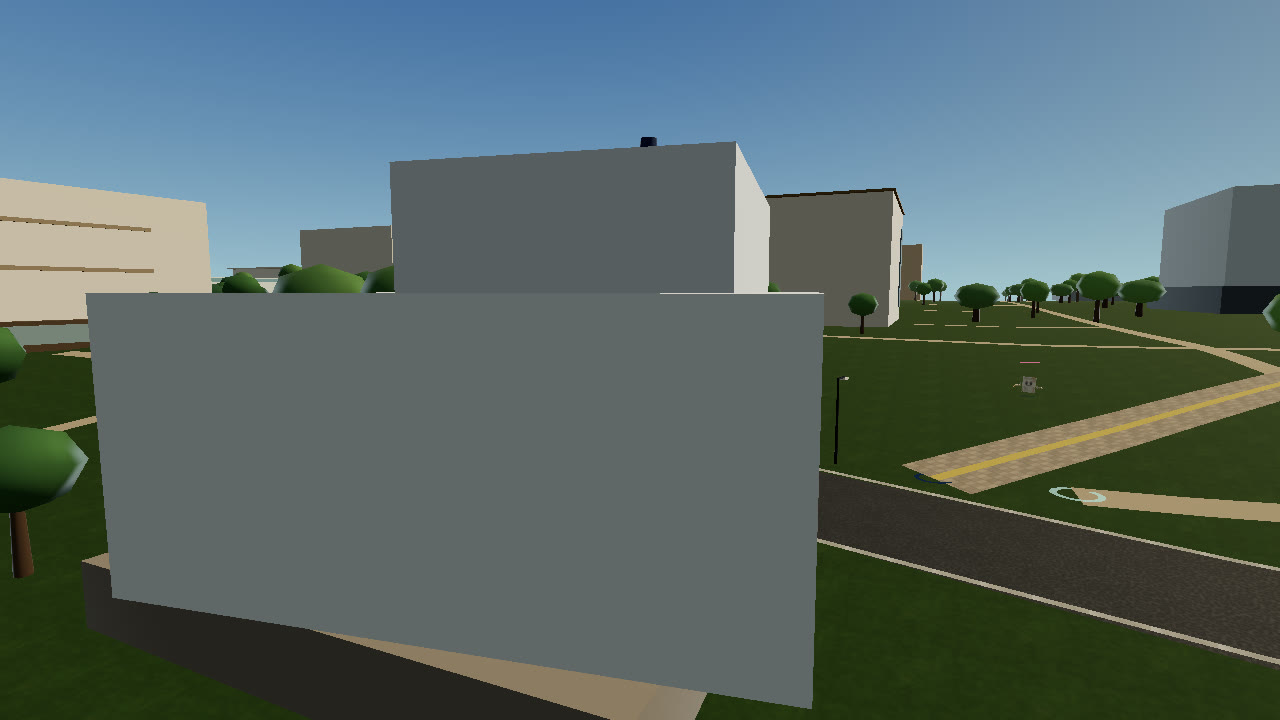
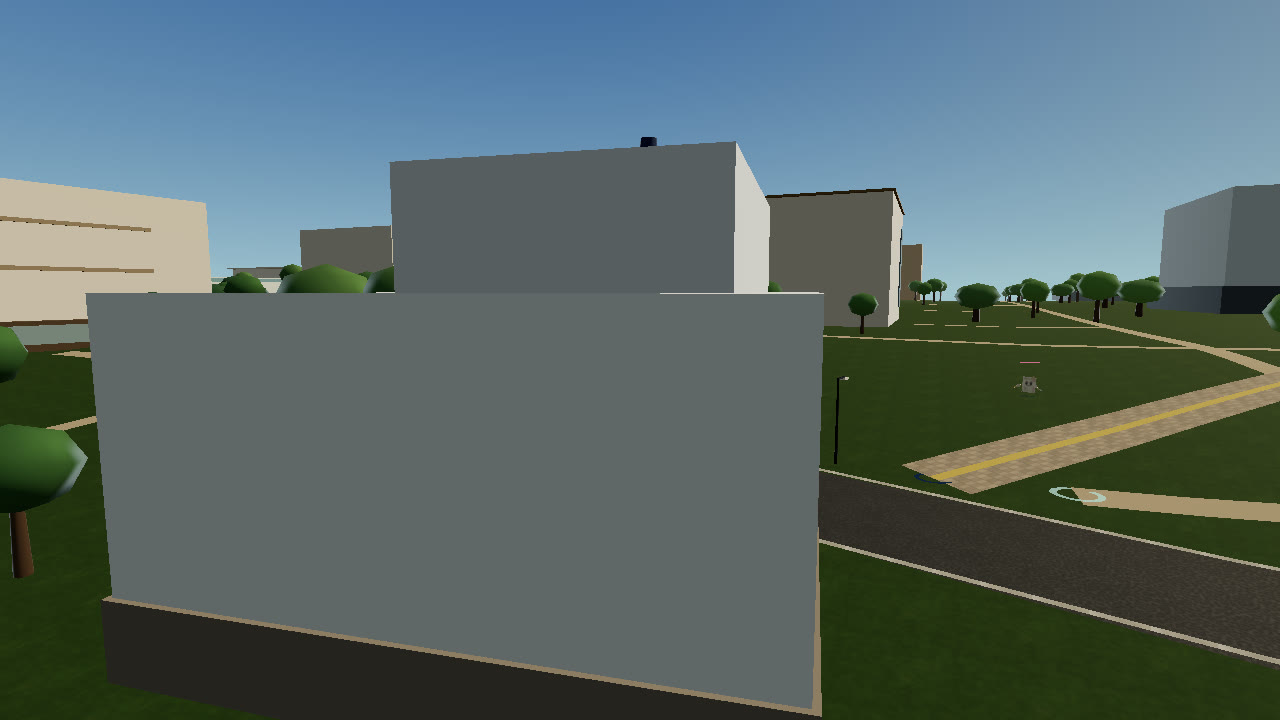
Rotate the museum skirt with the hull.
The ship sits 0.16 rad off the axes. The skirt now uses that rotation, and the low corner is taken from the rotated footprint, so the southwest corner no longer hangs past the pad.

diff --git a/src/game/world-data/zones/secondary.ts b/src/game/world-data/zones/secondary.ts
@@ -915,13 +915,22 @@ export function structureGroundY(s: SecondaryStructure): number {
   return sampleGroundElevation(s.position[0], s.position[1]);
 }
 
+/** Local footprint corner, then the same Y rotation the building group uses. */
+export function footprintCorner(s: SecondaryStructure, dx: number, dz: number) {
+  const cos = Math.cos(s.rotationY);
+  const sin = Math.sin(s.rotationY);
+  return {
+    x: s.position[0] + dx * cos + dz * sin,
+    z: s.position[1] - dx * sin + dz * cos,
+  };
+}
+
 /**
- * How far the placed base sits above the lowest corner. A wide footprint on a
- * slope leaves the downhill side in the air. The skirt fills that gap only.
+ * How far the placed base sits above the lowest rotated corner. A wide
+ * footprint on a slope leaves the downhill side in the air.
  */
 export function foundationSpan(s: SecondaryStructure) {
   const deck = structureGroundY(s);
-  const [cx, cz] = s.position;
   const hx = s.size[0] / 2;
   const hz = s.size[2] / 2;
   let low = deck;
@@ -932,7 +941,8 @@ export function foundationSpan(s: SecondaryStructure) {
     [-hx, hz],
     [hx, hz],
   ] as const) {
-    low = Math.min(low, sampleGroundElevation(cx + dx, cz + dz));
+    const corner = footprintCorner(s, dx, dz);
+    low = Math.min(low, sampleGroundElevation(corner.x, corner.z));
   }
   return { deck, low, gap: deck - low };
 }

diff --git a/src/game/world/ContextStructures.tsx b/src/game/world/ContextStructures.tsx
@@ -295,10 +295,12 @@ export function ContextStructures({
         const span = foundationSpan(s);
         if (span.gap < 1) return null;
         return (
-          <mesh key={`${s.id}-skirt`} position={[s.position[0], y - span.gap / 2, s.position[1]]} receiveShadow>
-            <boxGeometry args={[s.size[0] + 0.4, span.gap, s.size[2] + 0.4]} />
-            <meshStandardMaterial color="#8d8478" roughness={0.92} />
-          </mesh>
+          <group key={`${s.id}-skirt`} position={[s.position[0], 0, s.position[1]]} rotation={[0, s.rotationY, 0]}>
+            <mesh position={[0, y - span.gap / 2, 0]} receiveShadow>
+              <boxGeometry args={[s.size[0] + 0.4, span.gap, s.size[2] + 0.4]} />
+              <meshStandardMaterial color="#8d8478" roughness={0.92} />
+            </mesh>
+          </group>
         );
       })}
       {items.map(({ s, y, geo }) => {

diff --git a/docs/art/HANDOFF.md b/docs/art/HANDOFF.md
@@ -1,13 +1,12 @@
 # 交接
 
-最後更新：2026-11-12。海事博物館西邊的樓底接到坡上，不再懸空。南邊入口留在裙牆外。覺軒有南向迴廊和較高的綠瓦坡頂。文學館仍是平簷。松濤一、三、四、五館南向每一層上層有一條陽台。松濤二館仍是底層玻璃，上層也有同一條陽台。麗澤和實棟沒有這條陽台。文學館是綠瓦平簷，不再戴尖坡頂。覺軒有南向迴廊和較高的綠瓦坡頂。商管大樓是深色玻璃底座加退縮的淺色樓身。行政大樓仍是窄入口。四座公告牌都寫著「校園公告」和「請沿步道行走」。這是遊戲裡的估計用字。坡底入口的鋪面上有六條斑馬線，落在兩根門柱中間，也避開坡底車阻。線是平塗。田徑場內圈東側草地上有一座 3×8 m 的沙坑和西端起跳板。沙坑不壓到白線，人走得過去。尺寸仍是 estimated。田徑場南直道有一條終點白線，橫過跑道，不進內圈，沒有球網。線寬仍是 estimated。海事博物館室內北牆有一座黑天鵝剪影，1.4 m 台座會擋住身體。閱讀室沒有這座台座。剪影仍是 estimated。紹謨紀念游泳館室內是一道有分道線和出發台的水池。進門和讀檔站在南邊甲板。人走到池邊會停在水面外。出發台不擋人。體育館的籃架和一組地板標線留著。紹謨紀念體育館的活動室地板只留一組標線。舊的牆邊那組已拿掉。邊線、底線和兩側禁區仍在。中線收在邊線裡面。標線是平塗，沒有碰撞。紹謨紀念游泳館南向高窗在夜裡亮冷水色，白天仍是玻璃色。海豚基座南面寫了兩行勉詞，第二行是掌握資訊，開創未來。書卷廣場四片書卷各寫了樸、實、剛、毅一字。字牌在既有碰撞盒裡。體育館南面高側窗在夜裡跟著路燈發暖光，白天不發光。閱讀的女孩坐在圖書館前庭西側石座上，石座會擋住身體，不壓在坡道上。閱讀室的書架改貼側牆，人站在牆邊不會穿進書架。閱讀室北牆有兩座閱覽桌，會擋住身體，中間走道留著。教室沒有這兩座桌子。宮燈教室黑板前有一張講台，會擋住身體。閱讀室沒有這張講台。貼著牆撞上籃架底座時，人留在房間裡。體育館裡的兩座籃架底座會擋住身體。教室裡沒有這兩座底座。海事博物館北側停了兩架估計的展示機，機身會擋住身體，南門留在館外。體育館北側放了五虎碑，五隻銅雕環著石碑，石座會擋住身體，蓋章點留在北側草地。牧羊草坪放了一座「唱自己的歌」的立姿剪影，石座會擋住身體，蓋章點留在南邊。髮尾和小龜吊飾在減少動態時回到靜止。走路動畫仍跟著移動。標題鏡頭停在軌道中心，不再繞著驚聲廣場飄。一般動態仍會慢慢繞。河面波紋和雲的漂移停住。天色仍會跟著時段變。樹冠、灌木和草不再搖。時鐘停住，風力收到 0。圖書館台基比牆面每邊多出 2.5 m，高 1.1 m，會擋住身體。南緣給坡道留了缺口。五塊帶字的路牌會擋住身體，巡禮折線仍走得過。水源街校門的兩根門柱會擋住身體，門洞和頭頂的橫梁仍走得過。校區裡點名的 134 棵樹，樹幹會擋住身體。灌木、花圃和遠景散佈的樹仍可走過去。五十九根路燈的燈柱會擋住身體。13 m/s 的閃避拆成不超過 0.2 m 的小步。三條巡禮在廣場北側先回到坡道中線，圖書館這條再從路燈東側走向書卷廣場。廣場路燈在夜裡燈頭會亮，晴天不亮。宮燈教室轉角的跟隨鏡頭留在視線上，距離不夠就升高。宮燈大道同一站點留下晴天、夕照、夜、雨後四張。七個遊戲美術 GLB 的 gzip 合計 1.70 MB。決定先不加 meshopt 或 KTX2。低畫質的路人改用程序學生，90 m 外不繪製。高畫質仍用角色組，140 m 外不繪製。司令臺台面可以走上去，比周圍地面高 1.25 m。會文館是底層柱廊和淺色上層。海事博物館的船首四個面朝外。靜態站不再帶四張沒有引用的貼圖。球場的網改成柱子和細帶。五虎崗機車停車場畫了南北兩排車格，車道不再畫線。閱讀的女孩改坐在圖書館坡道西側的長椅上。圖書館坡道旁的長椅和花台改到坡面外面。松濤二館南向有底層玻璃和雨遮。其他松濤館仍是暖色宿舍。教育館有南向雨遮和樓層遮陽。外國語文大樓仍是底層長廊。室內南門可以走出去。公共室內的天花板上緣貼著 4.4 m 的牆頂。十二根車阻仍會擋住身體。田徑場內圈仍是 24×40 m 的白線和一條中線。坡道欄杆留著。整體目標尚未完成。
+最後更新：2026-11-12。海事博物館的裙牆跟著船身轉。船身偏了 0.16 rad。南邊入口留在裙牆外。覺軒有南向迴廊和較高的綠瓦坡頂。文學館仍是平簷。松濤一、三、四、五館南向每一層上層有一條陽台。松濤二館仍是底層玻璃，上層也有同一條陽台。麗澤和實棟沒有這條陽台。文學館是綠瓦平簷，不再戴尖坡頂。覺軒有南向迴廊和較高的綠瓦坡頂。商管大樓是深色玻璃底座加退縮的淺色樓身。行政大樓仍是窄入口。四座公告牌都寫著「校園公告」和「請沿步道行走」。這是遊戲裡的估計用字。坡底入口的鋪面上有六條斑馬線，落在兩根門柱中間，也避開坡底車阻。線是平塗。田徑場內圈東側草地上有一座 3×8 m 的沙坑和西端起跳板。沙坑不壓到白線，人走得過去。尺寸仍是 estimated。田徑場南直道有一條終點白線，橫過跑道，不進內圈，沒有球網。線寬仍是 estimated。海事博物館室內北牆有一座黑天鵝剪影，1.4 m 台座會擋住身體。閱讀室沒有這座台座。剪影仍是 estimated。紹謨紀念游泳館室內是一道有分道線和出發台的水池。進門和讀檔站在南邊甲板。人走到池邊會停在水面外。出發台不擋人。體育館的籃架和一組地板標線留著。紹謨紀念體育館的活動室地板只留一組標線。舊的牆邊那組已拿掉。邊線、底線和兩側禁區仍在。中線收在邊線裡面。標線是平塗，沒有碰撞。紹謨紀念游泳館南向高窗在夜裡亮冷水色，白天仍是玻璃色。海豚基座南面寫了兩行勉詞，第二行是掌握資訊，開創未來。書卷廣場四片書卷各寫了樸、實、剛、毅一字。字牌在既有碰撞盒裡。體育館南面高側窗在夜裡跟著路燈發暖光，白天不發光。閱讀的女孩坐在圖書館前庭西側石座上，石座會擋住身體，不壓在坡道上。閱讀室的書架改貼側牆，人站在牆邊不會穿進書架。閱讀室北牆有兩座閱覽桌，會擋住身體，中間走道留著。教室沒有這兩座桌子。宮燈教室黑板前有一張講台，會擋住身體。閱讀室沒有這張講台。貼著牆撞上籃架底座時，人留在房間裡。體育館裡的兩座籃架底座會擋住身體。教室裡沒有這兩座底座。海事博物館北側停了兩架估計的展示機，機身會擋住身體，南門留在館外。體育館北側放了五虎碑，五隻銅雕環著石碑，石座會擋住身體，蓋章點留在北側草地。牧羊草坪放了一座「唱自己的歌」的立姿剪影，石座會擋住身體，蓋章點留在南邊。髮尾和小龜吊飾在減少動態時回到靜止。走路動畫仍跟著移動。標題鏡頭停在軌道中心，不再繞著驚聲廣場飄。一般動態仍會慢慢繞。河面波紋和雲的漂移停住。天色仍會跟著時段變。樹冠、灌木和草不再搖。時鐘停住，風力收到 0。圖書館台基比牆面每邊多出 2.5 m，高 1.1 m，會擋住身體。南緣給坡道留了缺口。五塊帶字的路牌會擋住身體，巡禮折線仍走得過。水源街校門的兩根門柱會擋住身體，門洞和頭頂的橫梁仍走得過。校區裡點名的 134 棵樹，樹幹會擋住身體。灌木、花圃和遠景散佈的樹仍可走過去。五十九根路燈的燈柱會擋住身體。13 m/s 的閃避拆成不超過 0.2 m 的小步。三條巡禮在廣場北側先回到坡道中線，圖書館這條再從路燈東側走向書卷廣場。廣場路燈在夜裡燈頭會亮，晴天不亮。宮燈教室轉角的跟隨鏡頭留在視線上，距離不夠就升高。宮燈大道同一站點留下晴天、夕照、夜、雨後四張。七個遊戲美術 GLB 的 gzip 合計 1.70 MB。決定先不加 meshopt 或 KTX2。低畫質的路人改用程序學生，90 m 外不繪製。高畫質仍用角色組，140 m 外不繪製。司令臺台面可以走上去，比周圍地面高 1.25 m。會文館是底層柱廊和淺色上層。海事博物館的船首四個面朝外。靜態站不再帶四張沒有引用的貼圖。球場的網改成柱子和細帶。五虎崗機車停車場畫了南北兩排車格，車道不再畫線。閱讀的女孩改坐在圖書館坡道西側的長椅上。圖書館坡道旁的長椅和花台改到坡面外面。松濤二館南向有底層玻璃和雨遮。其他松濤館仍是暖色宿舍。教育館有南向雨遮和樓層遮陽。外國語文大樓仍是底層長廊。室內南門可以走出去。公共室內的天花板上緣貼著 4.4 m 的牆頂。十二根車阻仍會擋住身體。田徑場內圈仍是 24×40 m 的白線和一條中線。坡道欄杆留著。整體目標尚未完成。
 恢復工作時先讀 `CHECKPOINT.json` 的 `next_action`，再看 `BACKLOG.json` 的依賴。
 
 ## 本輪（海事博物館裙牆）
 
-- 船身仍放在基地中心的高度。西邊地面比樓底低，裙牆補上這段。南邊入口仍在裙牆外面。
+- 船身仍放在基地中心的高度，並帶 0.16 rad 的偏角。裙牆跟著船身轉，西南角落在裙牆裡面。南邊入口仍在裙牆外面。
 - 裙牆是 estimated。沒有新增音效。覺軒留著。
-
 ## 本輪（覺軒）
 
 - 覺軒是兩層淺色樓，南向有綠瓦迴廊和兩根紅柱，坡頂比共用的扁錐高，也比較收。

diff --git a/docs/art/STATUS.md b/docs/art/STATUS.md
@@ -718,9 +718,9 @@
 
 ## 階段：海事博物館裙牆（ART-066 的一部分）
 
-海事博物館的船身仍放在基地中心。西邊坡低處，樓底有一條裙牆接到地面。南邊入口沒有被裙牆擋住。東邊較高的坡仍會埋進船身下緣。裙牆是 estimated。
+海事博物館的船身仍放在基地中心，並偏了 0.16 rad。裙牆跟著船身轉，西南角落留在裙牆裡面。南邊入口沒有被裙牆擋住。東邊較高的坡仍會埋進船身下緣。裙牆是 estimated。
 
 畫面：`docs/art/evidence/museum/skirt.jpg`。測試：`scripts/museum-skirt.test.mjs`。
 
 ## 下一步
-見 `CHECKPOINT.json`。海事博物館西邊樓底已接到坡上。覺軒已有南向迴廊。松濤宿舍已有南向陽台。文學館已有綠瓦平簷。商管大樓已有深色玻璃底座和退縮的樓身。四座公告牌已寫著校園公告、請沿步道行走。坡底入口已有六條斑馬線。田徑場內圈東側已有一座可走的沙坑。田徑場南直道已有終點線。海事博物館室內已有會擋人的黑天鵝台座。游泳館室內已有會擋人的水面。活動室地板只留一組標線。手機與 RTX 3060 仍是 pending-device。不要加入沒有授權的音效。
+見 `CHECKPOINT.json`。海事博物館的裙牆已跟著船身轉。覺軒已有南向迴廊。松濤宿舍已有南向陽台。文學館已有綠瓦平簷。商管大樓已有深色玻璃底座和退縮的樓身。四座公告牌已寫著校園公告、請沿步道行走。坡底入口已有六條斑馬線。田徑場內圈東側已有一座可走的沙坑。田徑場南直道已有終點線。海事博物館室內已有會擋人的黑天鵝台座。游泳館室內已有會擋人的水面。活動室地板只留一組標線。手機與 RTX 3060 仍是 pending-device。不要加入沒有授權的音效。
